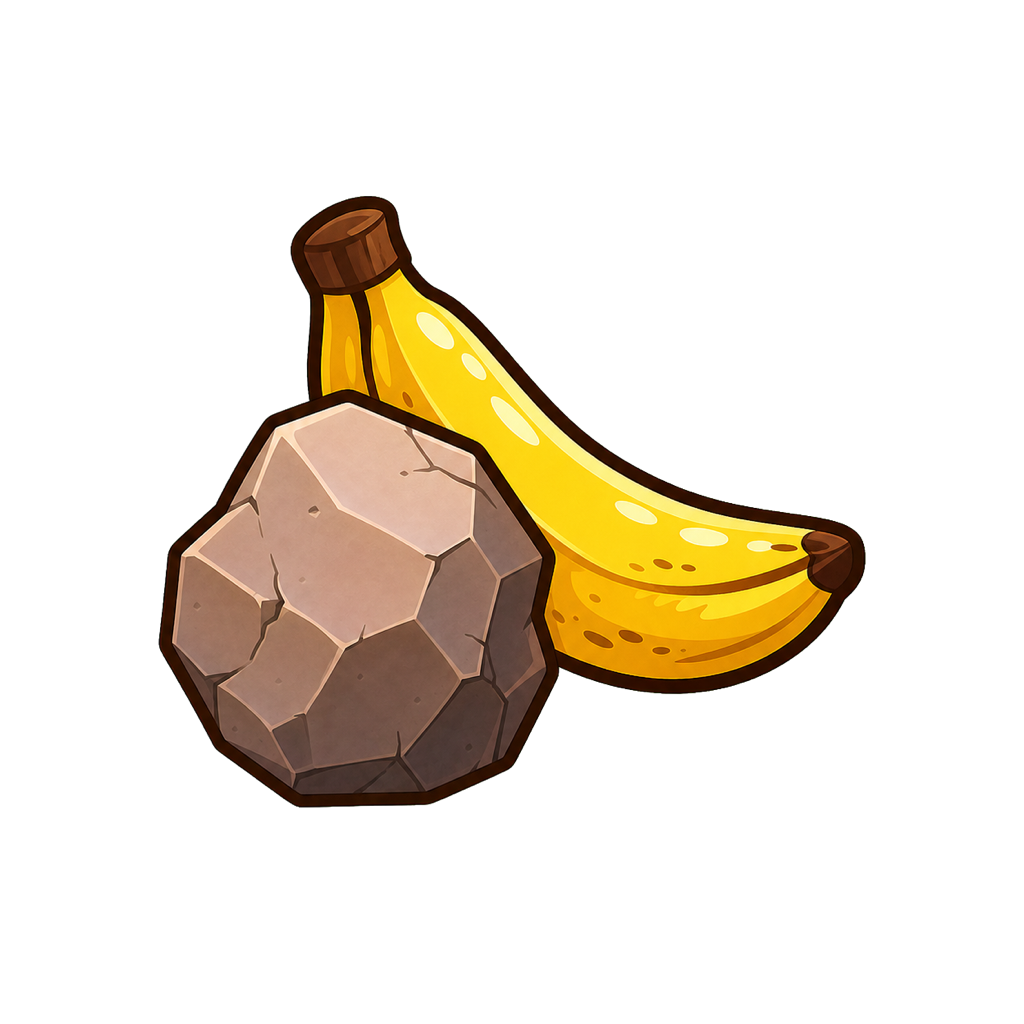
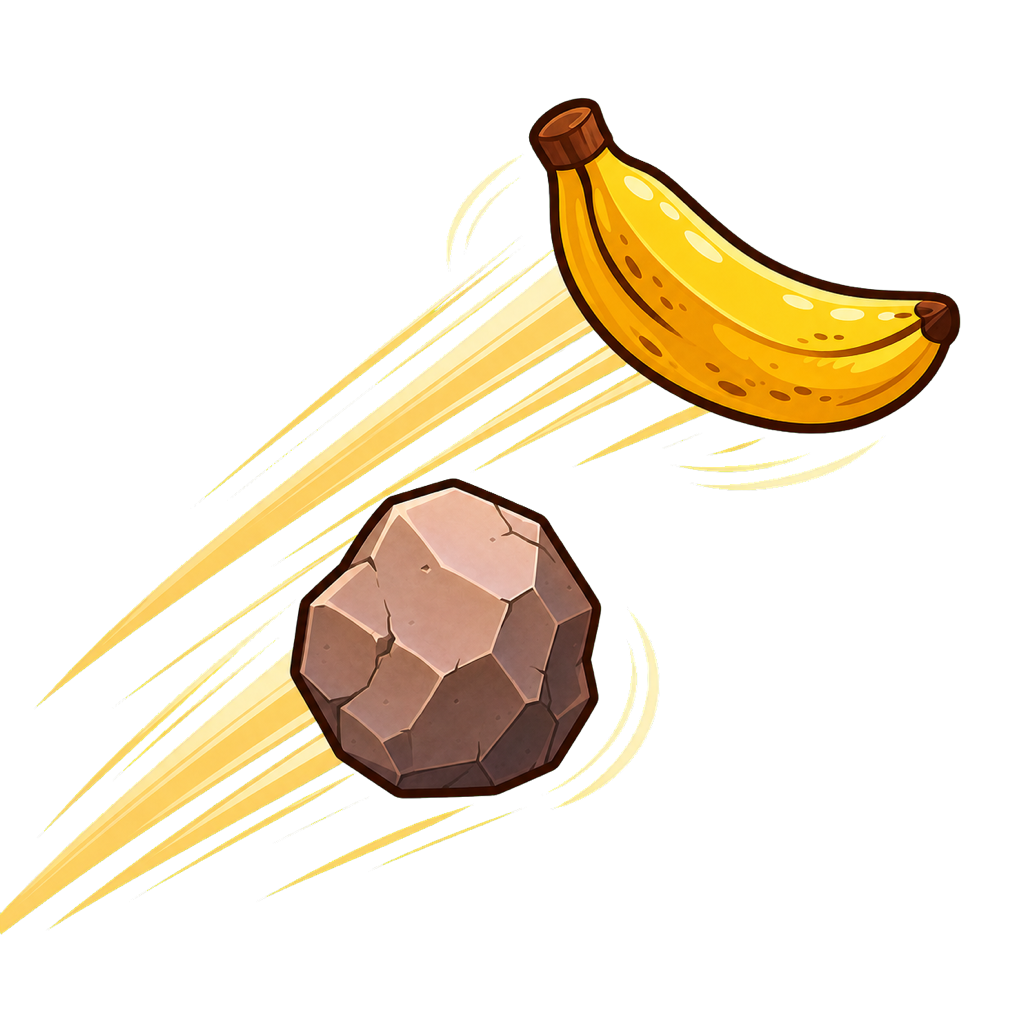
미니게임 아트 에셋 추가

diff --git a/image/README.md b/image/README.md
@@ -16,6 +16,8 @@ image/
 │   └── ui/{hud,game_icons,match_results}/
 ├── games/
 │   ├── fruit_jump/{background,hud,previews}/
+│   ├── pose_match/{background,obstacles,hud,previews}/
+│   ├── stone_or_banana/{background,covers,hud,icons,ui,previews}/
 │   └── stone_throw/{background,hud,previews}/
 └── screens/
     └── start/{background,buttons,logo,previews}/
@@ -28,10 +30,17 @@ image/
 - 모든 게임에서 사용하는 남은 시간판은 `common/ui/hud/time_remaining.png` 하나만 사용한다.
 - 6게임 공통 승패판과 O/X/무승부 표시는 `common/ui/match_results/`에 둔다.
 - 여러 게임에서 재사용하는 돌·바나나·코코넛·과일은 `common/props/`에 둔다.
+- 돌 or 바나나 게임은 공용 `stone.png`, `banana.png`, 남은 시간판, 6게임 승패판을
+  재사용하며 게임 전용 이빨·포만감 HUD와 턴 안내판만 `games/stone_or_banana/`에 둔다.
+- 돌 or 바나나 게임의 은폐 수풀은 배경에 합치지 않고 `covers/`의 투명 PNG를 사용한다.
+  Unity 정렬 순서는 `background → character → cover bush → UI`로 구성한다.
+- 돌 피격 및 바나나 섭취 표정은 각 캐릭터의 `faces/stone_hit_*.png`,
+  `faces/banana_chewing_puffed_cheeks.png`를 재사용한다.
 - 코코넛 깨기와 과일 점프의 게임 아이콘은 각각
   `common/props/coconut_break_left.png`, `common/props/fruit_grapes.png`를 재사용한다.
 - `previews/` 이미지는 배치 참고용이며 Unity에서 직접 조립할 개별 에셋이 아니다.
-- 새 게임을 추가할 때는 `games/<game_name>/background`, `hud`, `previews` 구조를 따른다.
+- 새 게임을 추가할 때는 `games/<game_name>/background`, `hud`, `previews` 구조를 따르고,
+  독립 장애물이나 소품이 필요하면 `obstacles` 또는 `props`를 추가한다.
 
 ## 정리 원칙
 

diff --git a/우가우가게임_기획_프롬프트.md b/우가우가게임_기획_프롬프트.md
@@ -99,7 +99,9 @@ Unity 쪽 프로젝트는 완전히 새로 만든다: **Unity 2D**, 캐릭터는
 
 ### 3. 점프해서 과일따기
 
-- **트랙 구조**: 화면 좌/우에 **각자의 나무가 독립적으로 존재** (상대와 자원 경쟁 없음).
+- **트랙 구조**: 화면 **가운데에 나무 한 그루만 존재**하며, 두 플레이어가 같은 나무 주변에서
+  각자 점프해 과일을 딴다. 나무는 시각적으로 공유하지만 과일 획득 판정·쿨다운·점수는
+  플레이어별로 독립 처리한다 (상대와 자원 경쟁 없음).
 - **점프 높이 계산**: 공용 모듈의 캘리브레이션된 기준선 대비 상승 높이로 판정 (키 차이 영향
   없음).
 - **과일 단계**: 3단계 — 낮은 단(기본 1점, 자주 딸 수 있음: 판정 쿨다운 짧음), 중간 단(3점),
